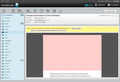
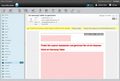
Updated screenshots to version 1.0

diff --git a/css/styles.css b/css/styles.css
@@ -608,13 +608,14 @@ li.rightboxlink {
 
 #screenthumbs .reflection {
 	position: relative;
-	left: 4px;
+	left: 6px;
 	top: -4px;
 	width: 120px;
 	height: 32px;
 	overflow: hidden;
 }
 
+.rightboxgray .reflection img,
 #screenthumbs .reflection img {
 	-webkit-transform: scaleY(-1);
 	   -moz-transform: scaleY(-1);
@@ -625,7 +626,8 @@ li.rightboxlink {
 	filter: alpha(opacity='20');
 }
 
-#screenthumbs .overlay {
+.rightboxgray .reflection .overlay,
+#screenthumbs .reflection .overlay {
 	position: absolute;
 	top: 0px;
 	left: 0px;
@@ -639,6 +641,26 @@ li.rightboxlink {
 	background: -ms-linear-gradient(top, rgba(132,132,132,0) 0%, rgba(132,132,132,1) 100%);
 	background: linear-gradient(to bottom, rgba(132,132,132,0) 0%, rgba(132,132,132,1) 100%);
 	filter: progid:DXImageTransform.Microsoft.gradient(startColorstr='#00848484', endColorstr='#848484', GradientType=0);
+}
+
+.rightboxgray .reflection {
+	position: relative;
+	width: 224px;
+	height: 58px;
+	left: 0;
+	top: -2px;
+	overflow: hidden;
+	z-index: 1;
+}
+
+.rightboxgray .reflection .overlay {
+	width: 224px;
+	height: 58px;
+}
+
+.rightboxgray .adboxtext {
+	position: relative;
+	z-index: 3;
 }
 
 #screenthumbs div p.tooltip {

diff --git a/_includes/aboutrightcol.html b/_includes/aboutrightcol.html
@@ -1,9 +1,12 @@
 <div class="rightboxgray">
-	<img src="images/mailview_small.jpg" width="224" height="155" alt="Mail view" /><br />
-	<img src="images/mailview_mirror.png" class="pngimage" width="224" height="58" alt="" />
+	<img src="images/mailview_small.jpg" width="224" height="152" alt="Mail view" />
+	<div class="reflection">
+		<img src="images/mailview_small.jpg" width="224" height="60" alt="" />
+		<div class="overlay"></div>
+	</div>
 	<p class="adboxtext" style="margin-top:-38px">
-		Roundcube provides a streamlined user interface. The default skin includes icons
-		designed by Stephen Horlander and Kevin Gerich for Mozilla.org.
+		Roundcube provides a streamlined user interface designed by the professional screen
+		designers at FLINT, Büro für Gestaltung, Switzerland
 	</p>
 	<p style="margin-top:10px">
     <a href="screens" class="btn btn-download" title="See more screen shots"><span class="caps">Screenshots</span></a>

diff --git a/about/index.html b/about/index.html
@@ -3,13 +3,13 @@ layout: default
 title: About Roundcube Webmail
 navtitle: About
 permalink: /
-lastmod: 2013-11-03T15:40:00Z
+lastmod: 2014-04-15T15:40:00Z
 ---
 <h1>About the Roundcube webmail project</h1>
 
 <p class="bodytext">
 	This project is a free and open source webmail solution with a desktop-like user interface which is easy to install/configure
-	and that runs on a standard LAMPP server. The skins use the latest web standards such as XHTML and CSS 2.
+	and that runs on a standard LAMPP server. The skins use the latest web standards to render a functional and customizable UI.
 	Roundcube includes other sophisticated open-source libraries such as <a href="http://pear.php.net">PEAR</a>,
 	an IMAP library derived from <a href="http://en.wikipedia.org/wiki/IlohaMail">IlohaMail</a>
 	the <a href="http://tinymce.moxiecode.com">TinyMCE</a> rich text editor,
